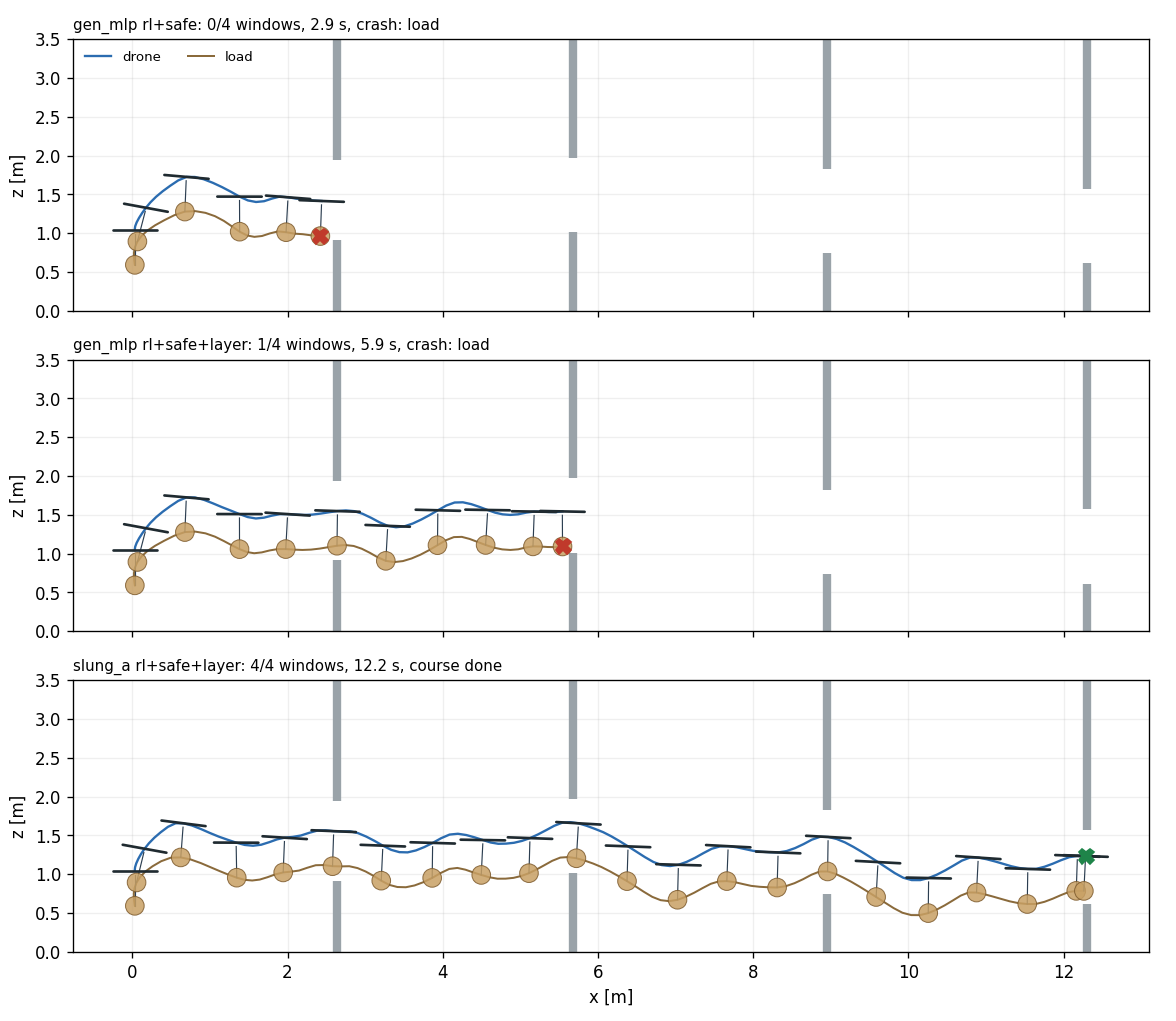
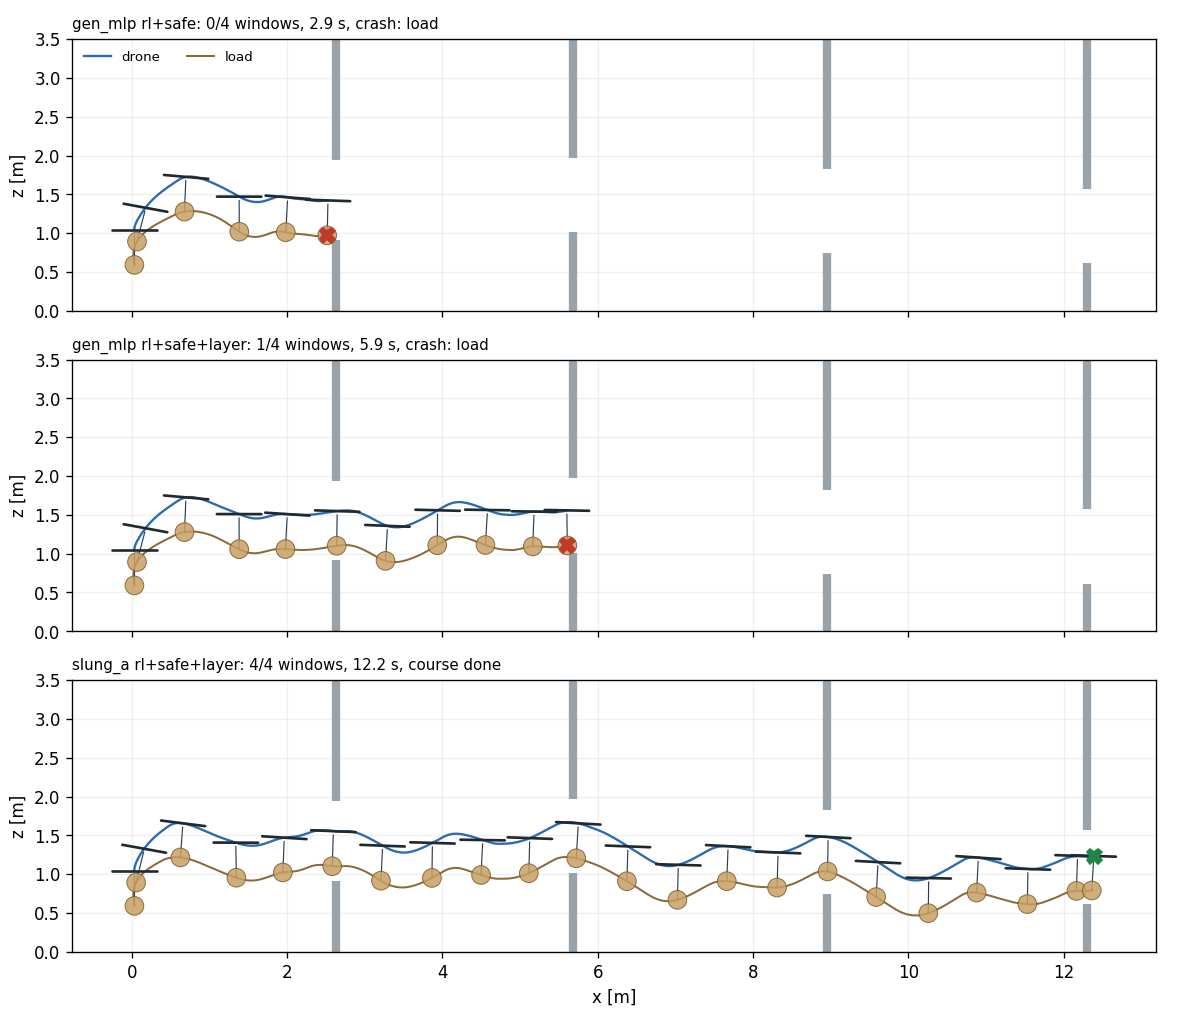
plot_slung.py --gif: the slung side view played in real time
Every physics step is logged now (the env's after_substep), so the paths are smooth, the
crash marker sits at the step the crash happened and the animation shows the swing. The
GIF draws the paths so far and the airframe, cable and load now, with windows passed and
the cable's swing in each row's title. docs/figures/slung_side_L4.png regenerated (same
runs: 0/4 2.9 s, 1/4 5.9 s, 4/4 12.2 s) and slung_side_L4.gif added (0.5 MB, RESULTS §14).

Claude-Session: https://claude.ai/code/session_0112M13fGZ9oudvi6jR6e8hb

diff --git a/reinforcement_yunho/rl_planner/scripts/plot_slung.py b/reinforcement_yunho/rl_planner/scripts/plot_slung.py
@@ -5,17 +5,21 @@ one row per planner on the same scene — e.g. the network alone and behind the 
         [--planner rl+safe --planner rl+safe+layer]
     python rl_planner/scripts/plot_slung.py --policy g=<export> --policy s=<export> \
         --planner g:rl+safe --planner g:rl+safe+layer --planner s:rl+safe+layer --png cmp.png   # several policies
+    ... --gif slung_side.gif [--fps 20]                  # the same rows played in real time (with or without --png)
 
 The rig is configs/slung/base.yaml (more yamls with --config). Horizontal axis: x along the course; vertical:
 height, true to scale. Each window is its wall (grey, floor to ceiling) with the opening left open, drawn at its
 centre's x. Drone path blue, load path brown; every ``--every`` s the airframe (side view, prop tip to prop tip),
-the cable and the load are drawn; the end is marked green (course done) or red with the crash reason. Same seeded
-CPU scenes as plot_course.py.
+the cable and the load are drawn; the end is marked green (course done) or red with the crash reason. The GIF
+draws the paths so far and the airframe, cable and load now, with the windows passed and the cable's swing from
+vertical in each row's title; a row stops at its end (a crash: the physics step it happened). Every physics step
+is logged. Same seeded CPU scenes as plot_course.py.
 """
 from __future__ import annotations
 
 import argparse
 import json
+import math
 import os
 import sys
 
@@ -25,6 +29,7 @@ if ROOT not in sys.path:
     sys.path.insert(0, ROOT)
 
 SLUNG = os.path.join(os.path.dirname(HERE), "configs", "slung", "base.yaml")
+GIF_PX = 1000                                       # GIF width [px]
 
 
 def main(argv=None) -> int:
@@ -37,9 +42,14 @@ def main(argv=None) -> int:
     ap.add_argument("--level", type=int, default=4)
     ap.add_argument("--seed", type=int, default=3)
     ap.add_argument("--every", type=float, default=0.6, help="draw the airframe, cable and load every this many s")
-    ap.add_argument("--png", required=True)
+    ap.add_argument("--png", default=None)
+    ap.add_argument("--gif", default=None, help="the same rows as an animation, real time")
+    ap.add_argument("--fps", type=int, default=20,
+                    help="GIF frame rate (GIF delays are whole 10 ms: 10, 20, 25, 50 play in real time)")
     ap.add_argument("--title", default=None)
     a = ap.parse_args(argv)
+    if not (a.png or a.gif):
+        ap.error("give --png and/or --gif")
     pols = dict(p.split("=", 1) if "=" in p else ("", p) for p in a.policy)
     first = next(iter(pols))
     specs = [s_.split(":", 1) if ":" in s_ else (first, s_) for s_ in (a.planner or ["rl+safe", "rl+safe+layer"])]
@@ -89,63 +99,138 @@ def main(argv=None) -> int:
         sc = core.scene
         n = int(sc.n_windows[0])
         win = (sc.center[0, :n].numpy().copy(), sc.size[0, :n].numpy().copy())
-        log = []                                   # t, drone x z, body x-axis (x, z), hook x z, load x z
-        for _ in range(core.max_episode_length):
+        log = []       # every physics step: t, drone x z, body x-axis (x, z), hook x z, load x z, swing deg, passed
+
+        def record():
             s, sl = core.state, core.slung
             bx = m3.quat_to_rotmat(s.quat)[0, :, 0]
             hook, _ = sl.hook(s.pos, s.quat)
-            log.append((float(core.episode_time[0]), float(s.pos[0, 0]), float(s.pos[0, 2]), float(bx[0]),
-                        float(bx[2]), float(hook[0, 0]), float(hook[0, 2]), float(sl.pos[0, 0]), float(sl.pos[0, 2])))
+            cab = sl.pos[0] - hook[0]
+            swing = math.degrees(math.acos(min(1.0, max(-1.0, float(-cab[2] / cab.norm().clamp_min(1e-9))))))
+            log.append((len(log) * core.dt, float(s.pos[0, 0]), float(s.pos[0, 2]), float(bx[0]), float(bx[2]),
+                        float(hook[0, 0]), float(hook[0, 2]), float(sl.pos[0, 0]), float(sl.pos[0, 2]), swing,
+                        int(core.mission.target[0])))
+
+        def after_substep(sub=core.after_substep):    # the env calls it after every physics step
+            live = not bool(core.mission.crashed[0])
+            sub()
+            if live:                                   # the crash step is the last one logged
+                record()
+
+        core.after_substep = after_substep
+        record()
+        for _ in range(core.max_episode_length):
             _, _, d, _ = env.step(planner.act(core))
             if bool(d[0]):
                 break
         rec = core.episode_record
         reason = CRASH_NAMES[int(rec["crash_reason"][0])] if bool(rec["crashed"][0]) else None
         outcome = "course done" if bool(rec["success"][0]) else (f"crash: {reason}" if reason else "timeout")
-        summary = (f"{name + ' ' if name else ''}{spec}: {int(rec['windows_passed'][0])}/{n} windows, "
-                   f"{float(rec['time_s'][0]):.1f} s, {outcome}")
+        label = f"{name + ' ' if name else ''}{spec}"
+        summary = f"{label}: {int(rec['windows_passed'][0])}/{n} windows, {float(rec['time_s'][0]):.1f} s, {outcome}"
         print(f"[plot] {summary}")
-        runs.append((summary, np.array(log), win, bool(rec["success"][0]), reason in ("load", "cable"),
-                     core.slung.radius))
+        runs.append(dict(label=label, summary=summary, L=np.array(log), win=win, n=n, ok=bool(rec["success"][0]),
+                         at_load=reason in ("load", "cable"), r=core.slung.radius))
         env.close()
 
     z_top = float(cfg["scene"]["bounds"]["z_max"])
-    x_lo = min(min(r[1][:, 1].min(), r[2][0][:, 0].min()) for r in runs) - 0.8
-    x_hi = max(max(r[1][:, 1].max(), r[2][0][:, 0].max()) for r in runs) + 0.8
+    x_lo = min(min(r["L"][:, 1].min(), r["win"][0][:, 0].min()) for r in runs) - 0.8
+    x_hi = max(max(r["L"][:, 1].max(), r["win"][0][:, 0].max()) for r in runs) + 0.8
     k = min(0.62, 14.0 / (x_hi - x_lo))            # inches per metre, both axes (true to scale)
-    fig, axes = plt.subplots(len(runs), 1, figsize=(1.2 + (x_hi - x_lo) * k, 0.5 + (z_top * k + 0.5) * len(runs)),
-                             sharex=True, squeeze=False)
-    for ax, (summary, L, (C, S), ok, at_load, r_load) in zip(axes[:, 0], runs):
-        for c, sz in zip(C, S):                     # wall with the opening
-            lo, hi = c[2] - sz[1] / 2, c[2] + sz[1] / 2
-            ax.plot([c[0], c[0]], [0.0, lo], "-", color="#9aa3a9", lw=5, solid_capstyle="butt")
-            ax.plot([c[0], c[0]], [hi, z_top], "-", color="#9aa3a9", lw=5, solid_capstyle="butt")
-        ax.plot(L[:, 1], L[:, 2], "-", color="#2b6cb0", lw=1.4, label="drone")
-        ax.plot(L[:, 7], L[:, 8], "-", color="#8a6a3b", lw=1.2, label="load")
-        step = max(1, int(round(a.every / (L[1, 0] - L[0, 0])))) if len(L) > 1 else 1
-        for i in list(range(0, len(L), step)) + [len(L) - 1]:
-            t, x, z, bxx, bxz, hx, hz, lx, lz = L[i]
-            ax.plot([x - tip * bxx, x + tip * bxx], [z - tip * bxz, z + tip * bxz], "-", color="#1f2a30", lw=1.6,
-                    solid_capstyle="round", zorder=5)
-            ax.plot([hx, lx], [hz, lz], "-", color="#2c3e50", lw=0.7, zorder=4)
-            ax.add_patch(Circle((lx, lz), r_load, facecolor="#c8a064", edgecolor="#7d5a2c", lw=0.6, alpha=0.85,
-                                zorder=4))
-        end = "#1e8449" if ok else "#c0392b"
-        ax.plot(L[-1, 7] if at_load else L[-1, 1], L[-1, 8] if at_load else L[-1, 2], "X", color=end, ms=9, zorder=6)
-        ax.set_title(summary, fontsize=9, loc="left")
-        ax.set_aspect("equal")
-        ax.set_ylim(0.0, z_top)
-        ax.set_xlim(x_lo, x_hi)
-        ax.set_ylabel("z [m]")
-        ax.grid(alpha=0.2)
-    axes[0, 0].legend(loc="upper left", fontsize=8, frameon=False, ncol=2)
-    axes[-1, 0].set_xlabel("x [m]")
-    if a.title:
-        fig.suptitle(a.title, fontsize=10)
-    fig.tight_layout()
-    fig.savefig(a.png, dpi=120)
-    plt.close(fig)
-    print(f"[plot] wrote {a.png}")
+
+    def figure():                                   # one row per run: walls with their openings, axes
+        fig, axes = plt.subplots(len(runs), 1, figsize=(1.2 + (x_hi - x_lo) * k, 0.5 + (z_top * k + 0.5) * len(runs)),
+                                 sharex=True, squeeze=False)
+        for ax, r in zip(axes[:, 0], runs):
+            for c, sz in zip(*r["win"]):
+                lo, hi = c[2] - sz[1] / 2, c[2] + sz[1] / 2
+                ax.plot([c[0], c[0]], [0.0, lo], "-", color="#9aa3a9", lw=5, solid_capstyle="butt")
+                ax.plot([c[0], c[0]], [hi, z_top], "-", color="#9aa3a9", lw=5, solid_capstyle="butt")
+            ax.set_aspect("equal")
+            ax.set_ylim(0.0, z_top)
+            ax.set_xlim(x_lo, x_hi)
+            ax.set_ylabel("z [m]")
+            ax.grid(alpha=0.2)
+        axes[-1, 0].set_xlabel("x [m]")
+        if a.title:
+            fig.suptitle(a.title, fontsize=10)
+        return fig, axes[:, 0]
+
+    def paths(ax, L):
+        return (ax.plot(L[:, 1], L[:, 2], "-", color="#2b6cb0", lw=1.4, label="drone")[0],
+                ax.plot(L[:, 7], L[:, 8], "-", color="#8a6a3b", lw=1.2, label="load")[0])
+
+    def rig(ax, row, r_load):                       # airframe (prop tip to prop tip), cable and load at one instant
+        _, x, z, bxx, bxz, hx, hz, lx, lz = row[:9]
+        return [ax.plot([x - tip * bxx, x + tip * bxx], [z - tip * bxz, z + tip * bxz], "-", color="#1f2a30", lw=1.6,
+                        solid_capstyle="round", zorder=5)[0],
+                ax.plot([hx, lx], [hz, lz], "-", color="#2c3e50", lw=0.7, zorder=4)[0],
+                ax.add_patch(Circle((lx, lz), r_load, facecolor="#c8a064", edgecolor="#7d5a2c", lw=0.6, alpha=0.85,
+                                    zorder=4))]
+
+    def mark_end(ax, r):                            # at the load when the load or the cable hit
+        L = r["L"]
+        ax.plot(L[-1, 7] if r["at_load"] else L[-1, 1], L[-1, 8] if r["at_load"] else L[-1, 2], "X",
+                color="#1e8449" if r["ok"] else "#c0392b", ms=9, zorder=6)
+
+    if a.png:
+        fig, axes = figure()
+        for ax, r in zip(axes, runs):
+            L = r["L"]
+            paths(ax, L)
+            step = max(1, int(round(a.every / (L[1, 0] - L[0, 0])))) if len(L) > 1 else 1
+            for i in list(range(0, len(L), step)) + [len(L) - 1]:
+                rig(ax, L[i], r["r"])
+            mark_end(ax, r)
+            ax.set_title(r["summary"], fontsize=9, loc="left")
+        axes[0].legend(loc="upper left", fontsize=8, frameon=False, ncol=2)
+        fig.tight_layout()
+        fig.savefig(a.png, dpi=120)
+        plt.close(fig)
+        print(f"[plot] wrote {a.png}")
+
+    if a.gif:
+        from PIL import Image
+        fig, axes = figure()
+        trails = [paths(ax, r["L"][:0]) for ax, r in zip(axes, runs)]
+        axes[0].legend(loc="upper left", fontsize=8, frameon=False, ncol=2)
+        for ax, r in zip(axes, runs):               # lay out once, for the longest titles
+            ax.set_title(r["summary"], fontsize=9, loc="left")
+        axes[0].set_title("t = 00.0 s", fontsize=9, loc="right")
+        fig.tight_layout()
+        fig.set_dpi(GIF_PX / fig.get_figwidth())
+        dt = float(runs[0]["L"][1, 0] - runs[0]["L"][0, 0])
+        t_end = max(float(r["L"][-1, 0]) for r in runs)
+        ended = [False] * len(runs)
+        frames = []
+        for t in list(np.arange(0.0, t_end, 1.0 / a.fps)) + [t_end]:
+            now = []
+            for j, (ax, r, (td, tl)) in enumerate(zip(axes, runs, trails)):
+                L = r["L"]
+                i = min(int(round(t / dt)), len(L) - 1)
+                td.set_data(L[:i + 1, 1], L[:i + 1, 2])
+                tl.set_data(L[:i + 1, 7], L[:i + 1, 8])
+                now += rig(ax, L[i], r["r"])
+                if ended[j]:
+                    continue
+                if i == len(L) - 1:
+                    ended[j] = True
+                    mark_end(ax, r)
+                    ax.set_title(r["summary"], fontsize=9, loc="left")
+                else:
+                    ax.set_title(f"{r['label']}: {int(L[i, 10])}/{r['n']} windows, swing {L[i, 9]:.0f}°", fontsize=9,
+                                 loc="left")
+            axes[0].set_title(f"t = {t:.1f} s", fontsize=9, loc="right")
+            fig.canvas.draw()
+            frames.append(Image.fromarray(np.asarray(fig.canvas.buffer_rgba())[..., :3].copy()))
+            for art in now:
+                art.remove()
+        plt.close(fig)
+        pal = frames[-1].quantize(colors=128)        # one palette for every frame (the last has every colour)
+        frames = [f.quantize(palette=pal, dither=Image.Dither.NONE) for f in frames]
+        frames[0].save(a.gif, save_all=True, append_images=frames[1:], loop=0,
+                       duration=[round(1000 / a.fps)] * (len(frames) - 1) + [2500])
+        print(f"[plot] wrote {a.gif} ({len(frames)} frames, {os.path.getsize(a.gif) / 1e6:.1f} MB)")
     return 0
 
 

diff --git a/reinforcement_yunho/rl_planner/RESULTS.md b/reinforcement_yunho/rl_planner/RESULTS.md
@@ -1320,6 +1320,8 @@ layer (모든 환경을 한 번에 푸는 MPC QP, `planners/convex_layer.py`)를
 
 ![줄 짐 옆모습: 신경망만 / + layer / slung_a + layer](docs/figures/slung_side_L4.png)
 
+![같은 세 줄을 실시간으로 (물리 스텝마다 기록, 제목에 통과한 창문 수와 줄 흔들림 각)](docs/figures/slung_side_L4.gif)
+
 신경망만: 드론이 창문 가운데로 날아 짐이 첫 창문 아래 바에 걸린다 (2.9 s). gen_mlp + layer: 첫 창문은 지나지만 둘째 창문 아래 바
 (1.0 m)에 짐(1.1 m, 반경 0.12)이 닿는다 — layer 는 창문면 0.35 m 앞에서야 개구부 제약을 걸어 올리기에 늦다. slung_a + layer: 창문
 앞에서 미리 높이를 올려 짐이 바 위로 지난다 (4/4, 12.2 s).
@@ -1386,7 +1388,7 @@ $PY rl_planner/scripts/evaluate.py --backend isaac --device cuda:0 --planners rl
 # §14 줄 짐 — 이어 학습, 그 뒤 export·고르기·42 조건·Isaac 확인 (after_slung_a.sh)
 bash /data/runs/queue_slung_a.sh; bash /data/runs/after_slung_a.sh
 $PY rl_planner/scripts/plot_slung.py --policy gen_mlp=<export> --policy slung_a=<export> --planner gen_mlp:rl+safe \
-    --planner gen_mlp:rl+safe+layer --planner slung_a:rl+safe+layer --level 4 --seed 5 --png side.png
+    --planner gen_mlp:rl+safe+layer --planner slung_a:rl+safe+layer --level 4 --seed 5 --png side.png --gif side.gif
 $PY rl_planner/scripts/play_isaac.py --policy <slung_a export> --config rl_planner/configs/slung/base.yaml --level 4 --seed 5 --safe --layer
 RL_PLANNER_SLUNG_EXPORT=<slung_a export> $PY -m pytest rl_planner/tests/test_onboard.py -k slung
 ```

diff --git a/reinforcement_yunho/rl_planner/README.md b/reinforcement_yunho/rl_planner/README.md
@@ -180,10 +180,10 @@ $PY rl_planner/scripts/expand_obs.py --run <gen_mlp run> --ckpt model_3997.pt --
 $PY rl_planner/scripts/train.py --backend torch --num-envs 4096 --max-iterations 800 --resume ws.pt \
     --config rl_planner/configs/train/general.yaml --config rl_planner/configs/slung/base.yaml \
     --config rl_planner/configs/slung/train.yaml --set "observation.policy=[...,slung]"   # expand_obs 가 출력하는 목록
-# 렌더: 기체 + 줄 + 짐 (머리줄에 흔들림 각) / 같은 장면 옆모습, 정책·계획기별로 한 줄씩
+# 렌더: 기체 + 줄 + 짐 (머리줄에 흔들림 각) / 같은 장면 옆모습, 정책·계획기별로 한 줄씩 (--gif: 실시간 애니메이션)
 $PY rl_planner/scripts/play_isaac.py --policy <export> --config rl_planner/configs/slung/base.yaml --level 4 --safe --layer
 $PY rl_planner/scripts/plot_slung.py --policy g=<export> --policy s=<slung_a export> \
-    --planner g:rl+safe --planner g:rl+safe+layer --planner s:rl+safe+layer --level 4 --seed 5 --png side.png
+    --planner g:rl+safe --planner g:rl+safe+layer --planner s:rl+safe+layer --level 4 --seed 5 --png side.png --gif side.gif
 ```
 
 ## 5. MDP 정의 (설정: `configs/default.yaml`)
